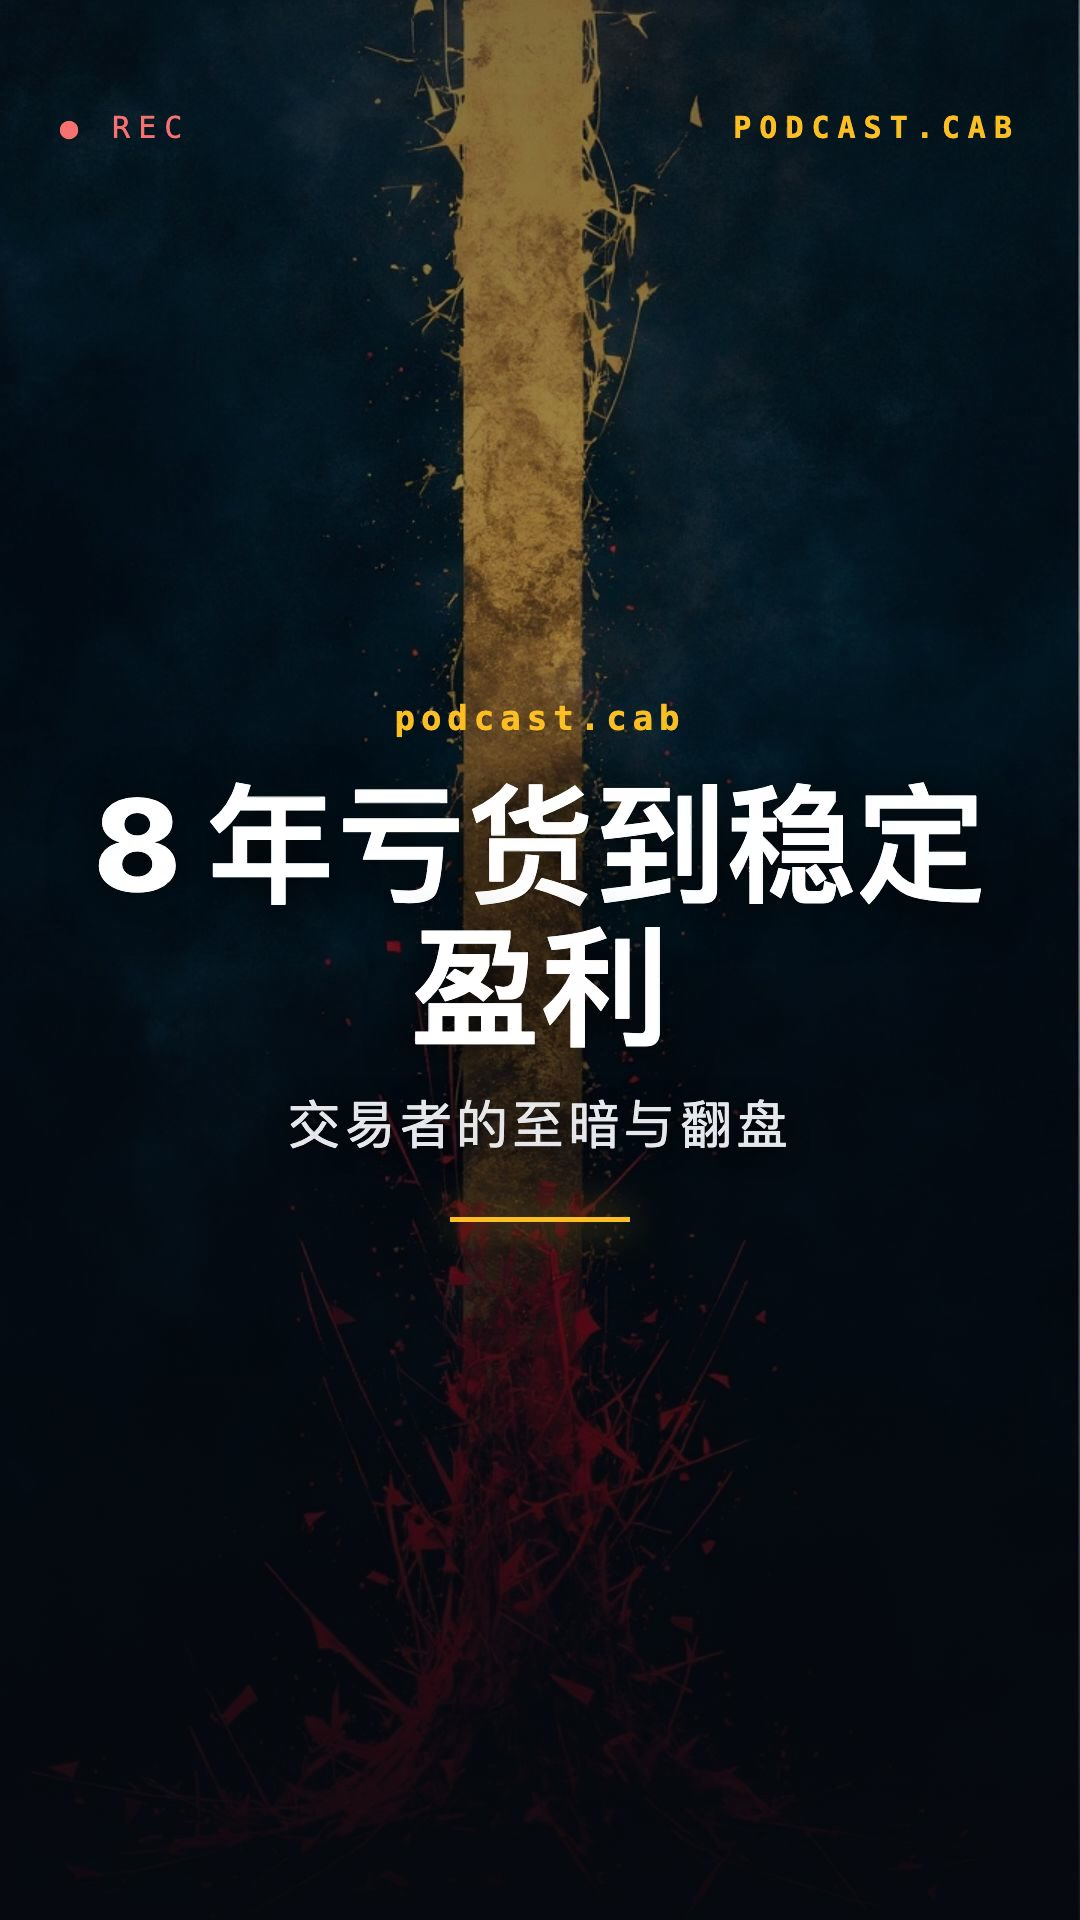
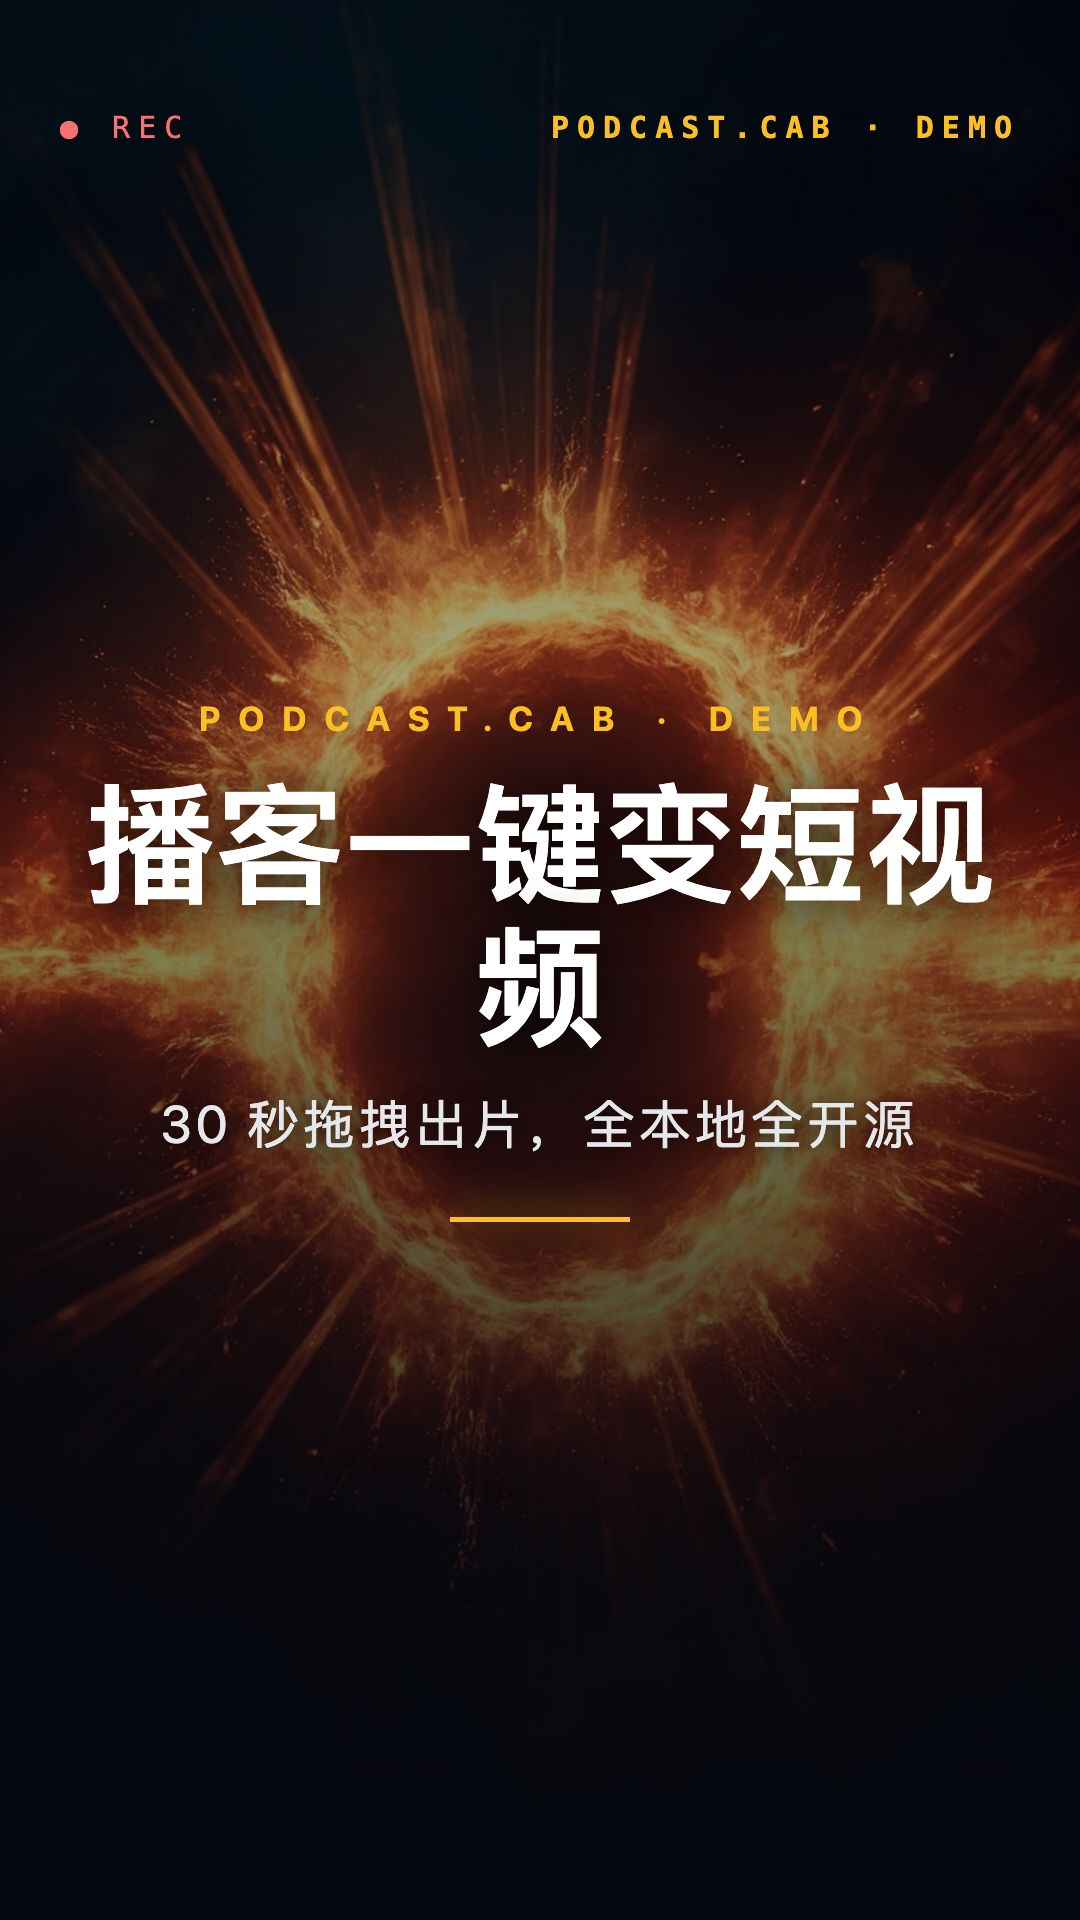
Refresh demo video and align copy with podcast2video
Demo assets now use podcast.cab's self-intro episode (2:32, 6 chapters)
rendered with the latest visual: brand parameterization, mirrored centered
waveform, raised subtitles, ambient particle layer, 4-emoji CTA outro.

Copy aligned with podcast2video README:
- FAQ: 9:16/1:1/16:9 三比例支持（不再写"V1 only 9:16"）
- Feature: outro 5s（不是 3s），cover 多比例
- Hero badges: 加 "✓ 三比例输出"
- Demo description: 描述新 demo 内容

🤖 Generated with [Claude Code](https://claude.com/claude-code)

diff --git a/index.html b/index.html
@@ -47,6 +47,7 @@
     <div class="hero-badges">
       <span>✓ AI 全自动</span>
       <span>✓ 每章可重生图</span>
+      <span>✓ 9:16 / 1:1 / 16:9 三比例</span>
       <span>✓ 发布文案附送</span>
       <span>✓ 完全本地</span>
       <span>✓ 开源免费</span>
@@ -62,7 +63,7 @@
 <!-- Demo 完整视频 -->
 <section id="demo" class="demo">
   <h2>真实成片，全自动产出</h2>
-  <p class="demo-sub">某交易者访谈 · 4 分 22 秒 · 5 个章节 + 5 张独立 AI 背景图 + 字幕同步 + 5 句金句卡 + 浮动粒子 + Ken Burns 平移 + 片尾"关注/点赞/评论/收藏"引导</p>
+  <p class="demo-sub">podcast.cab 用自己介绍自己 · 2 分 32 秒 · 6 个章节 + 6 张独立 AI 背景图 + 字幕同步 + 5 句金句卡 + 浮动粒子 + 镜像居中声波 + 片尾"关注/点赞/评论/收藏"引导</p>
   <div class="demo-frame">
     <video controls poster="/assets/poster.jpg" preload="metadata">
       <source src="/assets/demo-full.mp4" type="video/mp4" />
@@ -95,8 +96,8 @@
 
     <div class="feature">
       <div class="feature-icon">🎨</div>
-      <h3>AI 生 9:16 封面</h3>
-      <p>视频首帧即封面合成（背景图 + 标题 + 副标题 + 品牌条 + accent 线），上传平台抓首帧当缩略图。</p>
+      <h3>AI 生多比例封面</h3>
+      <p>视频首帧即封面合成（背景图 + 标题 + 副标题 + 品牌条 + accent 线），上传平台抓首帧当缩略图。9:16 / 1:1 / 16:9 三比例都支持。</p>
     </div>
 
     <div class="feature">
@@ -114,7 +115,7 @@
     <div class="feature">
       <div class="feature-icon">👀</div>
       <h3>片尾互动引导</h3>
-      <p>3 秒片尾自动出"关注 / 点赞 / 评论 / 收藏"4 个动效卡片，专为短视频平台优化的"涨粉"片尾。</p>
+      <p>5 秒片尾自动出"关注 / 点赞 / 评论 / 收藏"4 个动效卡片，专为短视频平台优化的"涨粉"片尾。</p>
     </div>
 
     <div class="feature">
@@ -242,8 +243,8 @@
   </details>
 
   <details>
-    <summary>支持横版 16:9 吗？</summary>
-    <p>V1 只输出 9:16 竖版（抖音 / 小红书 / 视频号 / B 站竖屏 原生）。横版 16:9 在路上。</p>
+    <summary>支持横版 16:9 / 方版 1:1 吗？</summary>
+    <p>都支持。设置里切比例即可，三套响应式布局自动适配元素位置。9:16（抖音 / 小红书 / 视频号 / B 站竖屏 / YT Shorts）、1:1（小红书图文位 / Instagram）、16:9（B 站 / YouTube 横版）。</p>
   </details>
 
   <details>